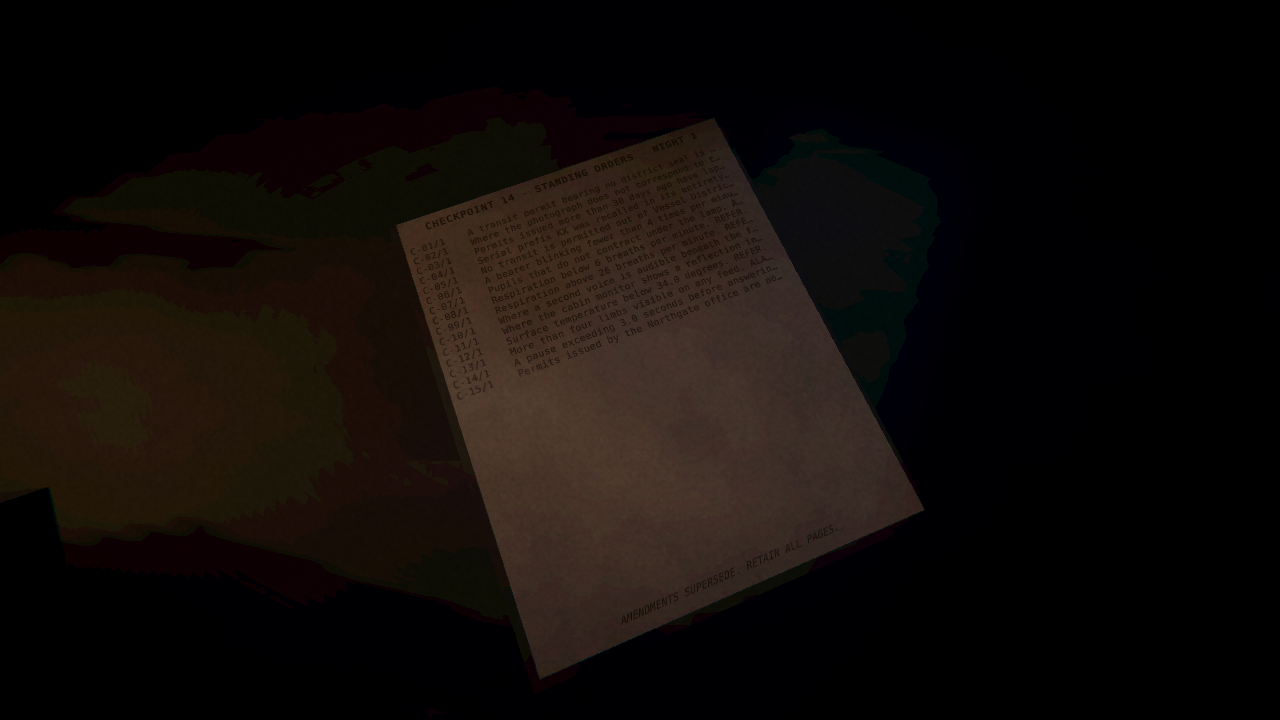
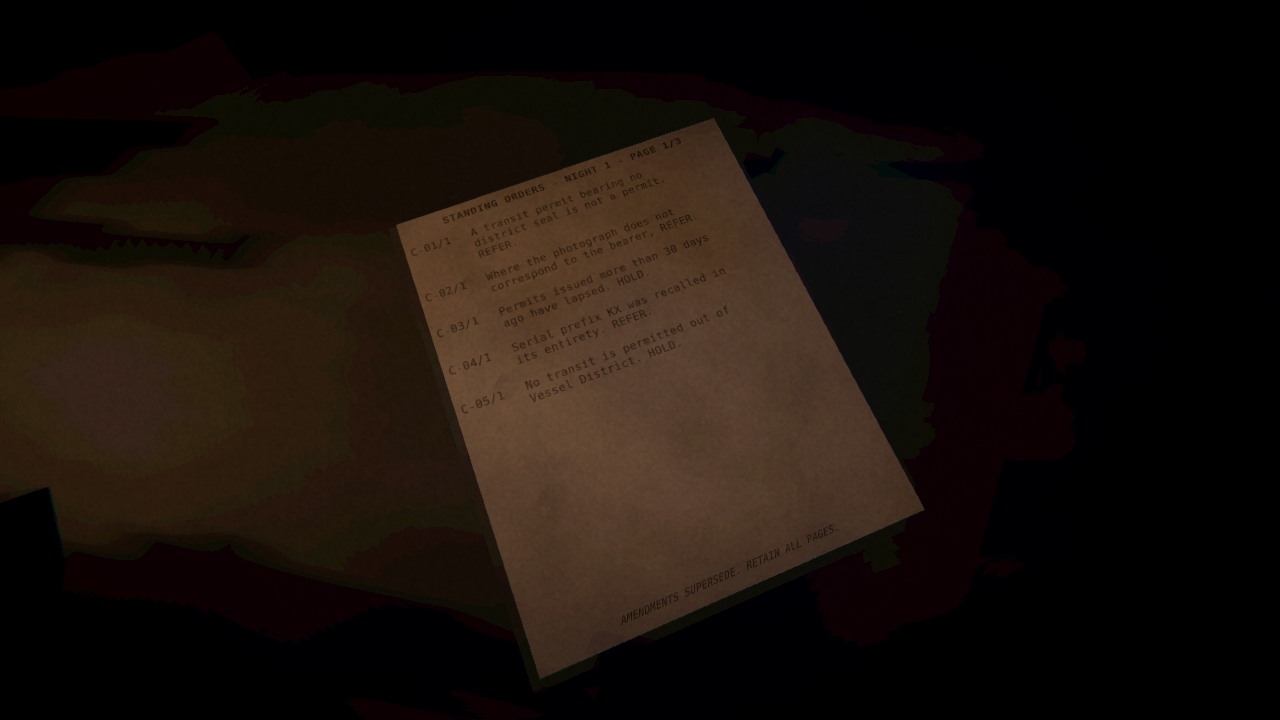
Make the binder readable, which it was not
Each criterion was printed as one line truncated at forty-six characters, so a
player could not read the rule they were about to be judged against. That is not
a legibility complaint. The entire game is deciding whether a subject matches a
written criterion, and the criterion was cut off mid-sentence.

Five criteria to a page now, printed in full and wrapped at word boundaries, with
the wrapped lines set alongside the criterion number rather than under it so a
page of rules stays a list. Clicking the binder while already leaning over it
turns the page -- the same leafing interaction the post got, which is what it was
always for.

Two mistakes had to be walked back to get there.

The line width was guessed from an assumed advance of 0.51 em and every line ran
off the right edge of the paper. DejaVu Sans Mono advances 0.602 em, so at 10 mm
on a 272 mm page the budget is 42 characters, not 52.

And the binder was too dark to read at all, which was fallout from narrowing the
desk lamp earlier in this milestone. That narrowing existed to keep the lamp off
the nearest monitor's face -- but the monitors are unlit now and cannot be washed
out by anything, so the only reason for the narrow cone was already gone. It is
wider than it ever was: 114 degrees at intensity 25, which finally puts the
binder inside the pool.

That put the frame back above the concept's exposure, so post exposure drops from
-0.62 to -0.76 to compensate. Corrected globally rather than by narrowing the lamp
[…]

Changed region(s): [[0.3125, 0.1528, 0.625, 0.6417], [0.0625, 0.2444, 0.0938, 0.275]]

diff --git a/game/Assets/Scripts/Runtime/Presentation/BoothPresenter.cs b/game/Assets/Scripts/Runtime/Presentation/BoothPresenter.cs
@@ -3,6 +3,7 @@ using System.Collections;
 using System.Collections.Generic;
 using System.Globalization;
 using System.Linq;
+using System.Text;
 using Monster.Interaction;
 using Monster.Rules;
 using Monster.Shift;
@@ -35,6 +36,7 @@ namespace Monster.Presentation
         // control dead in the build with nothing to indicate why.
         [SerializeField] private List<DeskInteractable> switches = new();
         [SerializeField] private List<DeskInteractable> mailControls = new();
+        [SerializeField] private List<DeskInteractable> manualControls = new();
 
         [SerializeField] private CheckpointStage stage;
 
@@ -44,6 +46,16 @@ namespace Monster.Presentation
         private Coroutine _pendingReply;
         private IReadOnlyList<Notice> _mail = Array.Empty<Notice>();
         private int _mailPage;
+        private int _manualPage;
+
+        private const int ManualCriteriaPerPage = 5;
+        private const int ManualLabelWidth = 9;
+
+        /// <summary>Characters per line, sized to the page rather than guessed. The binder
+        /// is 272 mm across and the body is set in 10 mm DejaVu Sans Mono, whose advance is
+        /// 0.602 em, so 42 characters is 253 mm and fits with a margin. A first pass assumed
+        /// an advance of 0.51 and ran every line off the right edge of the paper.</summary>
+        private const int ManualLineWidth = 33;
 
         public ShiftDirector Director => _director;
 
@@ -115,6 +127,8 @@ namespace Monster.Presentation
 
         public void RegisterMailControl(DeskInteractable control) => mailControls.Add(control);
 
+        public void RegisterManualControl(DeskInteractable control) => manualControls.Add(control);
+
         public void BindStage(CheckpointStage checkpointStage) => stage = checkpointStage;
 
         public CheckpointStage Stage => stage;
@@ -130,9 +144,16 @@ namespace Monster.Presentation
             {
                 control.Operated += OnMailTurned;
             }
+
+            foreach (var control in manualControls.Where(c => c != null))
+            {
+                control.Operated += OnManualTurned;
+            }
         }
 
         private void OnMailTurned(DeskInteractable _) => LeafThroughMail();
+
+        private void OnManualTurned(DeskInteractable _) => LeafThroughManual();
 
         private void OnDisable()
         {
@@ -144,6 +165,11 @@ namespace Monster.Presentation
             foreach (var control in mailControls.Where(c => c != null))
             {
                 control.Operated -= OnMailTurned;
+            }
+
+            foreach (var control in manualControls.Where(c => c != null))
+            {
+                control.Operated -= OnManualTurned;
             }
         }
 
@@ -418,6 +444,12 @@ namespace Monster.Presentation
         /// <summary>The binder shows every page ever issued, current and superseded, in the
         /// order they arrived. Working out which page is in force is the player's job, so
         /// nothing here marks the superseded ones.</summary>
+        /// <summary>Five criteria to a page, printed in full.
+        ///
+        /// They used to be one line each, truncated at forty-six characters, which meant a
+        /// player could not read the rule they were about to be judged against. That is not
+        /// a legibility complaint, it is unfair: the whole game is deciding whether a
+        /// subject matches a written criterion.</summary>
         private void RefreshManual()
         {
             if (manual == null || _director == null)
@@ -425,14 +457,67 @@ namespace Monster.Presentation
                 return;
             }
 
-            var fields = _director.Manual.AllPages
-                .Select(p => new DocumentField($"{p.Id}/{p.Revision}", Shorten(p.PrintedText, 46)))
-                .ToList();
+            var pages = _director.Manual.AllPages.ToList();
+            var total = Math.Max(1, (pages.Count + ManualCriteriaPerPage - 1) / ManualCriteriaPerPage);
+            _manualPage = Math.Clamp(_manualPage, 0, total - 1);
+
+            var fields = new List<DocumentField>();
+
+            foreach (var page in pages.Skip(_manualPage * ManualCriteriaPerPage).Take(ManualCriteriaPerPage))
+            {
+                var lines = Wrap(page.PrintedText, ManualLineWidth);
+                fields.Add(new DocumentField($"{page.Id}/{page.Revision}", lines[0]));
+
+                for (var i = 1; i < lines.Count; i++)
+                {
+                    fields.Add(new DocumentField(string.Empty, lines[i]));
+                }
+
+                fields.Add(new DocumentField(string.Empty, string.Empty));
+            }
 
             Show(manual, new DocumentContent(
-                $"CHECKPOINT 14 - STANDING ORDERS - NIGHT {_director.ShiftIndex + 1}",
+                $"STANDING ORDERS - NIGHT {_director.ShiftIndex + 1} - PAGE {_manualPage + 1}/{total}",
                 fields,
-                "AMENDMENTS SUPERSEDE. RETAIN ALL PAGES."));
+                "AMENDMENTS SUPERSEDE. RETAIN ALL PAGES.",
+                null,
+                ManualLabelWidth));
+        }
+
+        /// <summary>Turns to the next page of the binder, wrapping. Wired to clicking the
+        /// manual while already leaning over it.</summary>
+        public void LeafThroughManual()
+        {
+            _manualPage++;
+            RefreshManual();
+        }
+
+        /// <summary>Breaks a criterion across lines at word boundaries. TextMeshPro would
+        /// wrap this itself, but then the wrapped lines would start under the criterion
+        /// number instead of alongside it, and a page of rules has to stay a list.</summary>
+        private static List<string> Wrap(string text, int width)
+        {
+            var lines = new List<string>();
+            var line = new StringBuilder();
+
+            foreach (var word in (text ?? string.Empty).Split(' ', StringSplitOptions.RemoveEmptyEntries))
+            {
+                if (line.Length > 0 && line.Length + 1 + word.Length > width)
+                {
+                    lines.Add(line.ToString());
+                    line.Clear();
+                }
+
+                if (line.Length > 0)
+                {
+                    line.Append(' ');
+                }
+
+                line.Append(word);
+            }
+
+            lines.Add(line.ToString());
+            return lines;
         }
 
         private void RefreshLogbook(Decision? last)

diff --git a/game/Assets/Editor/NightShiftSceneBuilder.cs b/game/Assets/Editor/NightShiftSceneBuilder.cs
@@ -539,7 +539,7 @@ namespace Monster.EditorTools
             // guessed in Euler degrees. This is the pool of warm light the whole shot is
             // built around, and the first pass missed the desk entirely.
             var keyPosition = origin + new Vector3(0.170f, 0.360f, 0.048f);
-            var keyTarget = new Vector3(0.06f, DeskTopY, 0.44f);
+            var keyTarget = new Vector3(0.16f, DeskTopY, 0.52f);
             _lampOrigin = keyPosition;
             _lampTarget = keyTarget;
             var light = new GameObject("Key").AddComponent<Light>();
@@ -548,9 +548,9 @@ namespace Monster.EditorTools
                 Quaternion.LookRotation(keyTarget - keyPosition, Vector3.up));
             light.type = LightType.Spot;
             light.color = new Color(1.00f, 0.735f, 0.455f);
-            light.intensity = 17f;
+            light.intensity = 25f;
             light.range = 4.5f;
-            light.spotAngle = 84f;
+            light.spotAngle = 114f;
             light.innerSpotAngle = 26f;
             light.shadows = LightShadows.Hard;
             light.shadowStrength = 0.80f;
@@ -932,6 +932,7 @@ namespace Monster.EditorTools
                 ("admitted", null, 3, false, 3, -1),
                 ("intercom", ScreenAnchors.Count > 0 ? ScreenAnchors[0] : null, 4, false, 2, 0),
                 ("mail", _mailAnchor, 1, true, 2, -1),
+                ("manual_page2", _manualPages, 5, true, 2, -1),
             };
 
             var serialized = new SerializedObject(runner);
@@ -949,6 +950,7 @@ namespace Monster.EditorTools
                 entry.FindPropertyRelative("leanIn").boolValue = poses[i].leanIn;
                 entry.FindPropertyRelative("stagePhase").intValue = poses[i].stage;
                 entry.FindPropertyRelative("askQuestion").intValue = poses[i].ask;
+                entry.FindPropertyRelative("turnPage").boolValue = poses[i].name.EndsWith("_page2");
             }
 
             serialized.FindProperty("reportAnchor").objectReferenceValue = _logAnchor;

diff --git a/game/Assets/Editor/BoothContentBuilder.cs b/game/Assets/Editor/BoothContentBuilder.cs
@@ -142,7 +142,12 @@ namespace Monster.EditorTools
             BuildSwitches(handles.SwitchMeshes, handles.SwitchLabelAnchors, font, presenter);
             BuildIntercomKeys(handles.IntercomKeys, handles.IntercomKeyLabels, font, presenter);
             MakeInspectable(handles.PermitMesh, "permit", 0.46f, new Vector3(0f, 1f, -0.34f));
-            MakeInspectable(handles.ManualMesh, "manual", 0.42f, new Vector3(0f, 1f, -0.34f));
+            var manualKey = MakeInspectable(handles.ManualMesh, "manual", 0.42f,
+                new Vector3(0f, 1f, -0.34f), DeskInteractable.Behaviour.Leaf);
+            if (manualKey != null)
+            {
+                presenter.RegisterManualControl(manualKey);
+            }
             var mailKey = MakeInspectable(handles.MailAnchor, "mail", 0.40f, new Vector3(0f, 1f, -0.34f),
                 DeskInteractable.Behaviour.Leaf);
             if (mailKey != null)
@@ -189,7 +194,7 @@ namespace Monster.EditorTools
             // be leaned over, which is what makes cross-referencing it cost time.
             var title = TextFromTop(anchor, "Title", font, Mm(9.5f), InkColour,
                 0.264f, 0.012f, 0.166f, 0f, TextAlignmentOptions.Top, FontStyles.Bold);
-            var body = TextFromTop(anchor, "Body", font, Mm(8.6f), InkColour,
+            var body = TextFromTop(anchor, "Body", font, Mm(10.0f), InkColour,
                 0.264f, 0.300f, 0.148f, 0f, TextAlignmentOptions.TopLeft);
             var footer = TextFromTop(anchor, "Footer", font, Mm(7.5f), InkColour,
                 0.264f, 0.012f, -0.156f, 0f, TextAlignmentOptions.Top, FontStyles.Italic);

diff --git a/game/Assets/Scripts/Runtime/SelfCheck/SelfCheckRunner.cs b/game/Assets/Scripts/Runtime/SelfCheck/SelfCheckRunner.cs
@@ -53,6 +53,9 @@ namespace Monster.SelfCheck
 
             [Tooltip("Put this question through the intercom and wait for the reply. -1 asks nothing.")]
             public int askQuestion = -1;
+
+            [Tooltip("Turn to the next page of the binder before capturing.")]
+            public bool turnPage;
         }
 
         [SerializeField] private List<Checkpoint> checkpoints = new();
@@ -133,6 +136,11 @@ namespace Monster.SelfCheck
                 if (presenter != null && checkpoint.subjectIndex >= 0)
                 {
                     presenter.ShowSubject(checkpoint.subjectIndex);
+                }
+
+                if (presenter != null && checkpoint.turnPage)
+                {
+                    presenter.LeafThroughManual();
                 }
 
                 var stage = presenter != null ? presenter.Stage : null;

diff --git a/game/Assets/Editor/MonsterSetup.cs b/game/Assets/Editor/MonsterSetup.cs
@@ -138,7 +138,7 @@ namespace Monster.EditorTools
             tonemapping.mode.Override(TonemappingMode.Neutral);
 
             var colorAdjustments = Add<ColorAdjustments>();
-            colorAdjustments.postExposure.Override(-0.62f);
+            colorAdjustments.postExposure.Override(-0.76f);
             colorAdjustments.contrast.Override(9f);
             colorAdjustments.saturation.Override(-9f);
             colorAdjustments.colorFilter.Override(new Color(1.0f, 0.97f, 0.93f));
